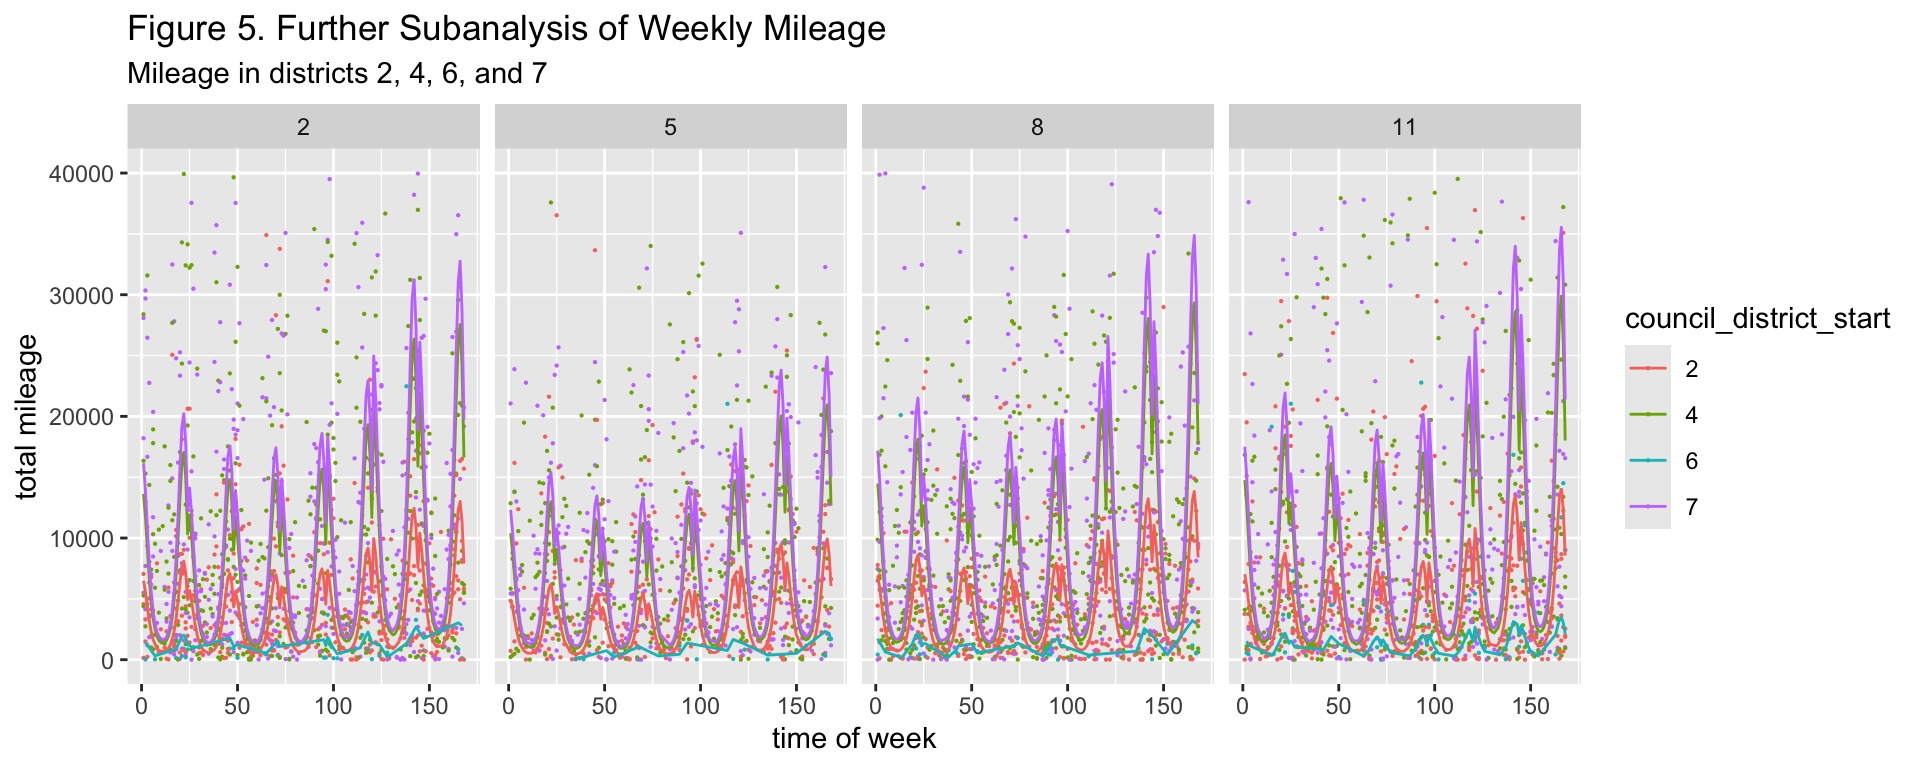
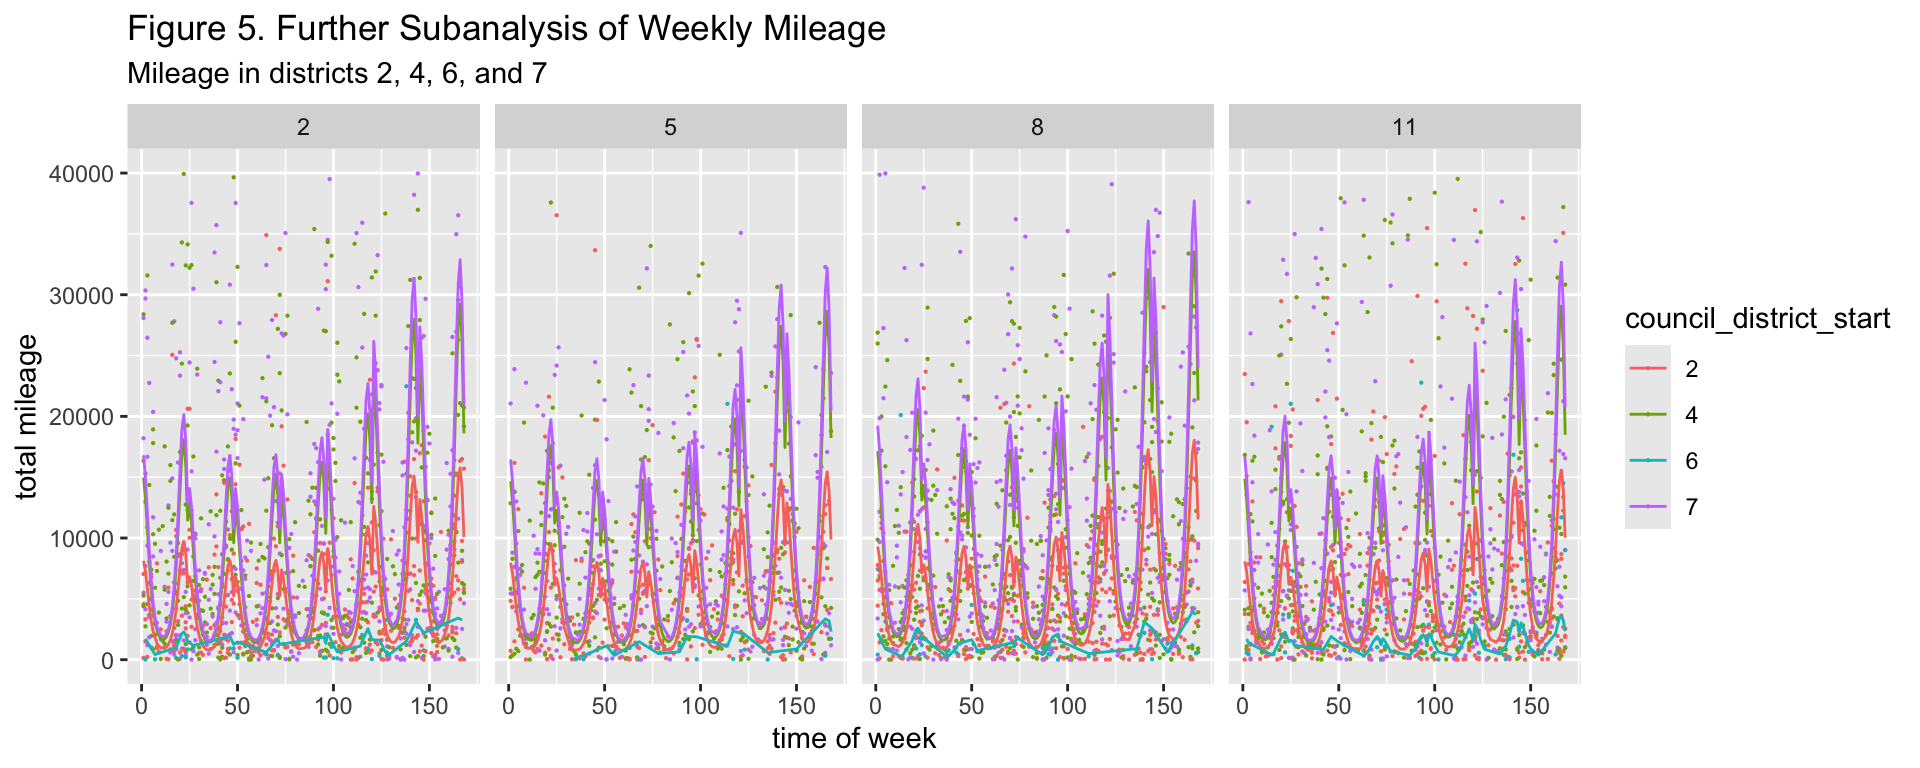
median edit

Changed region(s): [[0.0625, 0.2812, 0.8125, 0.875], [0.1875, 0.4375, 0.2188, 0.4688]]

diff --git a/docs/Micromobile_Vehicles.html b/docs/Micromobile_Vehicles.html
@@ -442,7 +442,7 @@ window.Quarto = {
 <thead>
 <tr class="header">
 <th style="text-align: left;" data-quarto-table-cell-role="th"></th>
-<th style="text-align: right;" data-quarto-table-cell-role="th">Estimate</th>
+<th style="text-align: right;" data-quarto-table-cell-role="th">Value</th>
 <th style="text-align: right;" data-quarto-table-cell-role="th">Std. Error</th>
 <th style="text-align: right;" data-quarto-table-cell-role="th">t value</th>
 <th style="text-align: right;" data-quarto-table-cell-role="th">Pr(&gt;|t|)</th>
@@ -451,171 +451,171 @@ window.Quarto = {
 <tbody>
 <tr class="odd">
 <td style="text-align: left;">(Intercept)</td>
-<td style="text-align: right;">0.7917192</td>
-<td style="text-align: right;">0.0002798</td>
-<td style="text-align: right;">2829.382258</td>
-<td style="text-align: right;">0.0000000</td>
+<td style="text-align: right;">0.7912942</td>
+<td style="text-align: right;">0.0002116</td>
+<td style="text-align: right;">3740.311194</td>
+<td style="text-align: right;">0.00e+00</td>
 </tr>
 <tr class="even">
 <td style="text-align: left;">council_district_start10</td>
-<td style="text-align: right;">0.0413009</td>
-<td style="text-align: right;">0.0004277</td>
-<td style="text-align: right;">96.569122</td>
-<td style="text-align: right;">0.0000000</td>
+<td style="text-align: right;">0.0385200</td>
+<td style="text-align: right;">0.0003788</td>
+<td style="text-align: right;">101.698043</td>
+<td style="text-align: right;">0.00e+00</td>
 </tr>
 <tr class="odd">
 <td style="text-align: left;">council_district_start2</td>
-<td style="text-align: right;">0.0619467</td>
-<td style="text-align: right;">0.0004668</td>
-<td style="text-align: right;">132.691644</td>
-<td style="text-align: right;">0.0000000</td>
+<td style="text-align: right;">0.0570368</td>
+<td style="text-align: right;">0.0004861</td>
+<td style="text-align: right;">117.325428</td>
+<td style="text-align: right;">0.00e+00</td>
 </tr>
 <tr class="even">
 <td style="text-align: left;">council_district_start3</td>
-<td style="text-align: right;">-0.0120573</td>
-<td style="text-align: right;">0.0003938</td>
-<td style="text-align: right;">-30.617812</td>
-<td style="text-align: right;">0.0000000</td>
+<td style="text-align: right;">-0.0119308</td>
+<td style="text-align: right;">0.0002789</td>
+<td style="text-align: right;">-42.776047</td>
+<td style="text-align: right;">0.00e+00</td>
 </tr>
 <tr class="odd">
 <td style="text-align: left;">council_district_start4</td>
-<td style="text-align: right;">0.0496159</td>
-<td style="text-align: right;">0.0004351</td>
-<td style="text-align: right;">114.044794</td>
-<td style="text-align: right;">0.0000000</td>
+<td style="text-align: right;">0.0469054</td>
+<td style="text-align: right;">0.0003962</td>
+<td style="text-align: right;">118.399341</td>
+<td style="text-align: right;">0.00e+00</td>
 </tr>
 <tr class="even">
 <td style="text-align: left;">council_district_start5</td>
-<td style="text-align: right;">0.0060014</td>
-<td style="text-align: right;">0.0003973</td>
-<td style="text-align: right;">15.106122</td>
-<td style="text-align: right;">0.0000000</td>
+<td style="text-align: right;">0.0050926</td>
+<td style="text-align: right;">0.0002850</td>
+<td style="text-align: right;">17.866347</td>
+<td style="text-align: right;">0.00e+00</td>
 </tr>
 <tr class="odd">
 <td style="text-align: left;">council_district_start6</td>
-<td style="text-align: right;">0.0855111</td>
-<td style="text-align: right;">0.0012190</td>
-<td style="text-align: right;">70.147839</td>
-<td style="text-align: right;">0.0000000</td>
+<td style="text-align: right;">0.0815815</td>
+<td style="text-align: right;">0.0016796</td>
+<td style="text-align: right;">48.572469</td>
+<td style="text-align: right;">0.00e+00</td>
 </tr>
 <tr class="even">
 <td style="text-align: left;">council_district_start7</td>
-<td style="text-align: right;">0.0468037</td>
-<td style="text-align: right;">0.0004446</td>
-<td style="text-align: right;">105.278853</td>
-<td style="text-align: right;">0.0000000</td>
+<td style="text-align: right;">0.0450063</td>
+<td style="text-align: right;">0.0004883</td>
+<td style="text-align: right;">92.167776</td>
+<td style="text-align: right;">0.00e+00</td>
 </tr>
 <tr class="odd">
 <td style="text-align: left;">council_district_start8</td>
-<td style="text-align: right;">0.0364069</td>
-<td style="text-align: right;">0.0004441</td>
-<td style="text-align: right;">81.975099</td>
-<td style="text-align: right;">0.0000000</td>
+<td style="text-align: right;">0.0329335</td>
+<td style="text-align: right;">0.0003800</td>
+<td style="text-align: right;">86.658579</td>
+<td style="text-align: right;">0.00e+00</td>
 </tr>
 <tr class="even">
 <td style="text-align: left;">council_district_start9</td>
-<td style="text-align: right;">-0.0446247</td>
-<td style="text-align: right;">0.0003928</td>
-<td style="text-align: right;">-113.593305</td>
-<td style="text-align: right;">0.0000000</td>
+<td style="text-align: right;">-0.0410775</td>
+<td style="text-align: right;">0.0002872</td>
+<td style="text-align: right;">-143.023840</td>
+<td style="text-align: right;">0.00e+00</td>
 </tr>
 <tr class="odd">
 <td style="text-align: left;">poly(day_of_week, 5)1</td>
-<td style="text-align: right;">-0.8198255</td>
-<td style="text-align: right;">0.0248308</td>
-<td style="text-align: right;">-33.016428</td>
-<td style="text-align: right;">0.0000000</td>
+<td style="text-align: right;">-0.8608221</td>
+<td style="text-align: right;">0.0204821</td>
+<td style="text-align: right;">-42.028101</td>
+<td style="text-align: right;">0.00e+00</td>
 </tr>
 <tr class="even">
 <td style="text-align: left;">poly(day_of_week, 5)2</td>
-<td style="text-align: right;">-0.4551428</td>
-<td style="text-align: right;">0.0248268</td>
-<td style="text-align: right;">-18.332755</td>
-<td style="text-align: right;">0.0000000</td>
+<td style="text-align: right;">-0.4885173</td>
+<td style="text-align: right;">0.0207928</td>
+<td style="text-align: right;">-23.494556</td>
+<td style="text-align: right;">0.00e+00</td>
 </tr>
 <tr class="odd">
 <td style="text-align: left;">poly(day_of_week, 5)3</td>
-<td style="text-align: right;">0.2279895</td>
-<td style="text-align: right;">0.0248213</td>
-<td style="text-align: right;">9.185219</td>
-<td style="text-align: right;">0.0000000</td>
+<td style="text-align: right;">0.2676737</td>
+<td style="text-align: right;">0.0205435</td>
+<td style="text-align: right;">13.029607</td>
+<td style="text-align: right;">0.00e+00</td>
 </tr>
 <tr class="even">
 <td style="text-align: left;">poly(day_of_week, 5)4</td>
-<td style="text-align: right;">0.1446110</td>
-<td style="text-align: right;">0.0248211</td>
-<td style="text-align: right;">5.826130</td>
-<td style="text-align: right;">0.0000000</td>
+<td style="text-align: right;">0.1283341</td>
+<td style="text-align: right;">0.0204835</td>
+<td style="text-align: right;">6.265255</td>
+<td style="text-align: right;">0.00e+00</td>
 </tr>
 <tr class="odd">
 <td style="text-align: left;">poly(day_of_week, 5)5</td>
-<td style="text-align: right;">0.0699393</td>
-<td style="text-align: right;">0.0248217</td>
-<td style="text-align: right;">2.817669</td>
-<td style="text-align: right;">0.0048390</td>
+<td style="text-align: right;">0.0833539</td>
+<td style="text-align: right;">0.0205336</td>
+<td style="text-align: right;">4.059398</td>
+<td style="text-align: right;">4.93e-05</td>
 </tr>
 <tr class="even">
 <td style="text-align: left;">poly(hour, 4)1</td>
-<td style="text-align: right;">-0.9886552</td>
-<td style="text-align: right;">0.0248577</td>
-<td style="text-align: right;">-39.772665</td>
-<td style="text-align: right;">0.0000000</td>
+<td style="text-align: right;">-0.8101374</td>
+<td style="text-align: right;">0.0188676</td>
+<td style="text-align: right;">-42.937983</td>
+<td style="text-align: right;">0.00e+00</td>
 </tr>
 <tr class="odd">
 <td style="text-align: left;">poly(hour, 4)2</td>
-<td style="text-align: right;">-2.9314933</td>
-<td style="text-align: right;">0.0250390</td>
-<td style="text-align: right;">-117.077043</td>
-<td style="text-align: right;">0.0000000</td>
+<td style="text-align: right;">-2.8126603</td>
+<td style="text-align: right;">0.0213178</td>
+<td style="text-align: right;">-131.939533</td>
+<td style="text-align: right;">0.00e+00</td>
 </tr>
 <tr class="even">
 <td style="text-align: left;">poly(hour, 4)3</td>
-<td style="text-align: right;">1.1470942</td>
-<td style="text-align: right;">0.0248943</td>
-<td style="text-align: right;">46.078506</td>
-<td style="text-align: right;">0.0000000</td>
+<td style="text-align: right;">0.9865457</td>
+<td style="text-align: right;">0.0204102</td>
+<td style="text-align: right;">48.335956</td>
+<td style="text-align: right;">0.00e+00</td>
 </tr>
 <tr class="odd">
 <td style="text-align: left;">poly(hour, 4)4</td>
-<td style="text-align: right;">1.2000927</td>
-<td style="text-align: right;">0.0248667</td>
-<td style="text-align: right;">48.261040</td>
-<td style="text-align: right;">0.0000000</td>
+<td style="text-align: right;">1.1648325</td>
+<td style="text-align: right;">0.0204417</td>
+<td style="text-align: right;">56.983033</td>
+<td style="text-align: right;">0.00e+00</td>
 </tr>
 <tr class="even">
 <td style="text-align: left;">poly(month, 5)1</td>
-<td style="text-align: right;">-0.3389225</td>
-<td style="text-align: right;">0.0248270</td>
-<td style="text-align: right;">-13.651354</td>
-<td style="text-align: right;">0.0000000</td>
+<td style="text-align: right;">-0.1439795</td>
+<td style="text-align: right;">0.0210141</td>
+<td style="text-align: right;">-6.851566</td>
+<td style="text-align: right;">0.00e+00</td>
 </tr>
 <tr class="odd">
 <td style="text-align: left;">poly(month, 5)2</td>
-<td style="text-align: right;">0.1153499</td>
-<td style="text-align: right;">0.0248472</td>
-<td style="text-align: right;">4.642374</td>
-<td style="text-align: right;">0.0000035</td>
+<td style="text-align: right;">0.4123752</td>
+<td style="text-align: right;">0.0206998</td>
+<td style="text-align: right;">19.921716</td>
+<td style="text-align: right;">0.00e+00</td>
 </tr>
 <tr class="even">
 <td style="text-align: left;">poly(month, 5)3</td>
-<td style="text-align: right;">0.2860301</td>
-<td style="text-align: right;">0.0248252</td>
-<td style="text-align: right;">11.521786</td>
-<td style="text-align: right;">0.0000000</td>
+<td style="text-align: right;">0.0853248</td>
+<td style="text-align: right;">0.0209906</td>
+<td style="text-align: right;">4.064903</td>
+<td style="text-align: right;">4.81e-05</td>
 </tr>
 <tr class="odd">
 <td style="text-align: left;">poly(month, 5)4</td>
-<td style="text-align: right;">0.4902185</td>
-<td style="text-align: right;">0.0248274</td>
-<td style="text-align: right;">19.745062</td>
-<td style="text-align: right;">0.0000000</td>
+<td style="text-align: right;">0.2952864</td>
+<td style="text-align: right;">0.0209131</td>
+<td style="text-align: right;">14.119702</td>
+<td style="text-align: right;">0.00e+00</td>
 </tr>
 <tr class="even">
 <td style="text-align: left;">poly(month, 5)5</td>
-<td style="text-align: right;">-0.2060012</td>
-<td style="text-align: right;">0.0248270</td>
-<td style="text-align: right;">-8.297478</td>
-<td style="text-align: right;">0.0000000</td>
+<td style="text-align: right;">-0.1363457</td>
+<td style="text-align: right;">0.0208550</td>
+<td style="text-align: right;">-6.537797</td>
+<td style="text-align: right;">0.00e+00</td>
 </tr>
 </tbody>
 </table>
